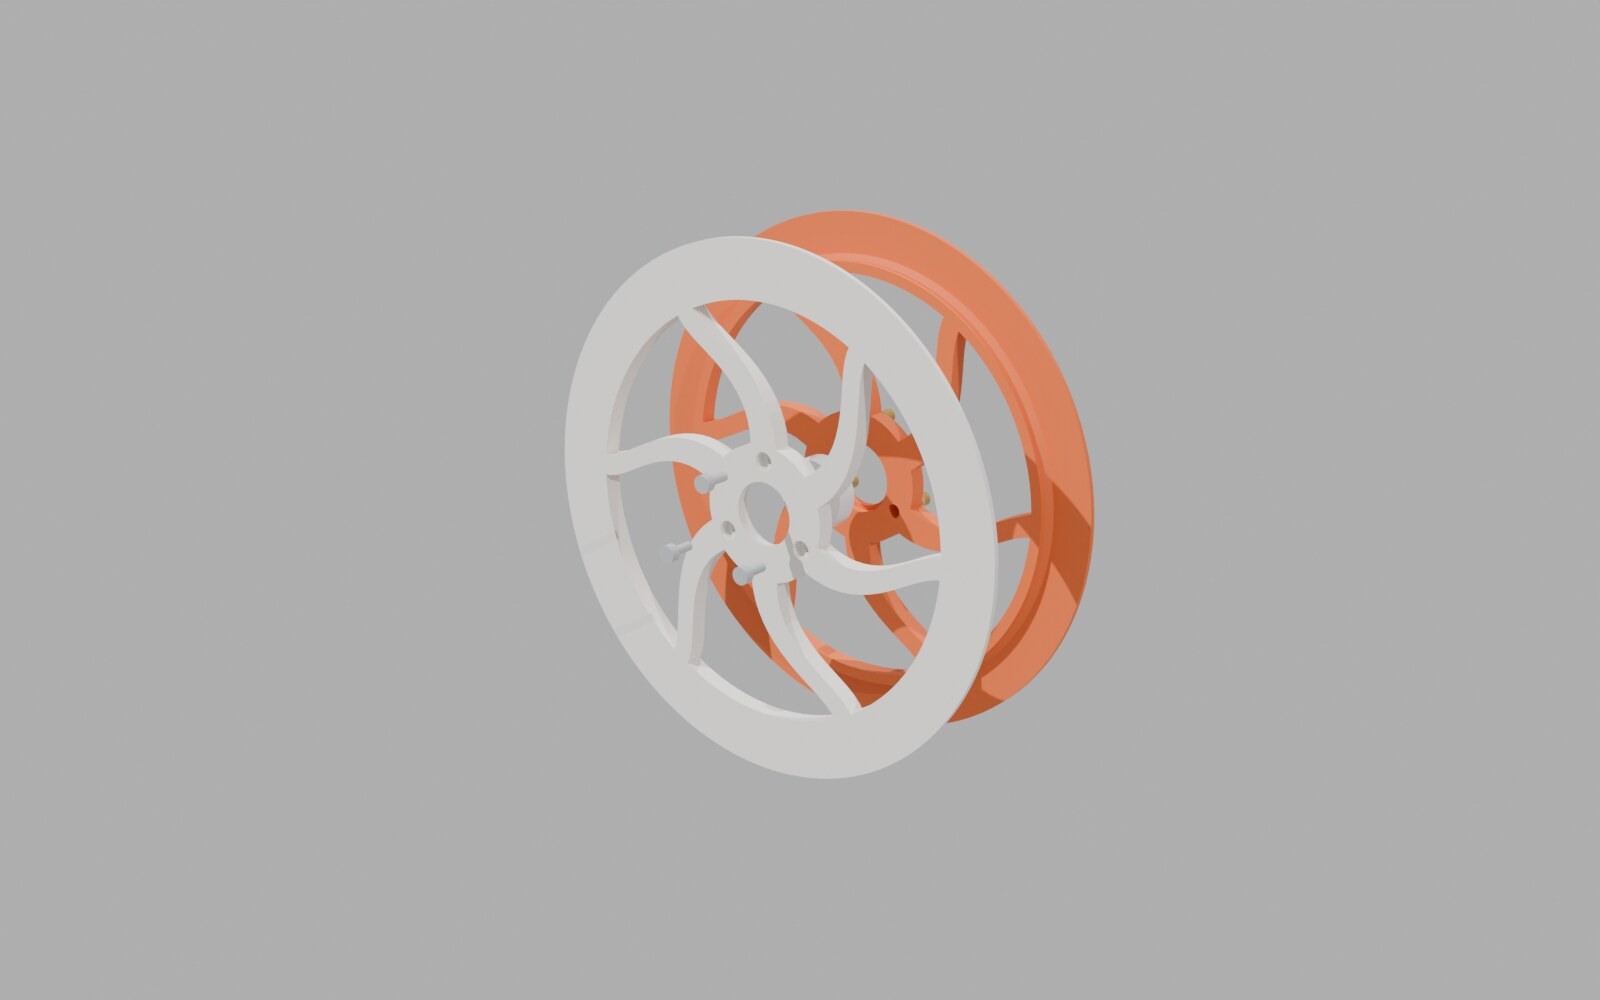
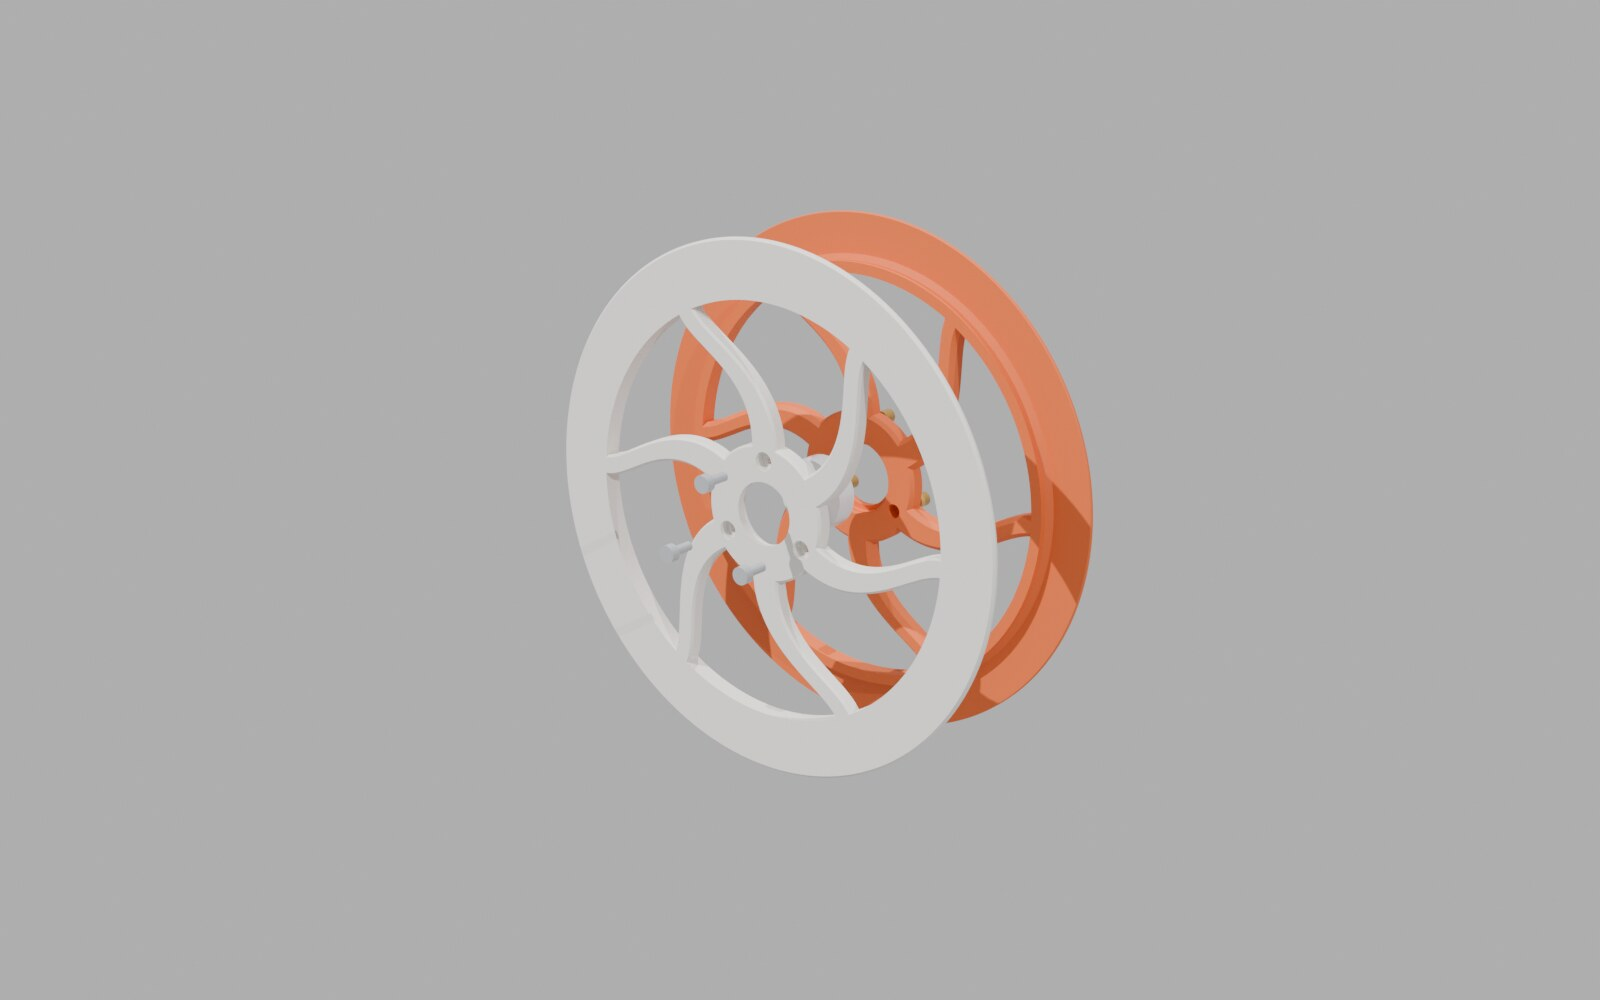
lite-81: print chamfers on the sheave halves; printchamfer force/leave (#312)
Owner 2026-11-27: "a 0.5 chamfer on the outer edge of the rim plate
side and a 1.0mm chamfer on the inner edges. if the edge which is part
of the bearing plate cannot tolerate a 1.0, then do 0.5".

Each half printed plate face down, chamfered by printchamfer with the
print profile (0.5 bed, 1.0 top, less in 0.2 steps on narrow faces) and
the part's own exceptions:
- the rim's outer edge on the plate face: 0.5 (the 1.2 wall is narrower
  than the rules' minimum for it);
- the 625 pocket's mouth at the split: a 0.5 lead-in, keeping 1.9 of the
  2.4 seat (bores are otherwise sharp);
- the groove's seat (the halves' seam under the cable) left sharp.
The pair is built and chamfered once (13 s) and copied to each tool.
The spokes' sides are now one smooth curve each (were 16 facets).

platform/freecad/printchamfer.py: chamfer()/select()/unchamfered() take
force= (a size for an edge the rules would skip) and leave= (keep sharp);
new FreeCAD test (8/8 pass). parts/printed/README.md documents them.

Pass dry run: 0 problems (none missed or failed; the 625 clamped at the
designed 4.71 mm3, 10 pairs). Drawing gains a notes block from the
profile; labels re-placed.

diff --git a/cad/passes/lite81_arms_dancers.py b/cad/passes/lite81_arms_dancers.py
@@ -37,9 +37,10 @@ _REPO = os.environ.get("VT350_REPO", "/home/dan/Code/vt350")
 sys.path[:0] = [os.path.join(_REPO, "platform/freecad"), os.path.join(_REPO, "platform/render"),
                 os.path.join(_REPO, "cad/passes")]
 os.environ["LITE78_AS_LIB"] = "1"
-import litelib, linkgeo
+import litelib, linkgeo, printchamfer
 import lite78_front17 as l78
 from litelib import MODELS
+CHAMFER = printchamfer.profile(os.path.join(_REPO, "cad/data/print-profile.json"))   # 0.5 bed, 1.0 top, 0.2 steps
 V = FreeCAD.Vector
 SRC, DST = f"{MODELS}/vt350-lite-80.FCStd", f"{MODELS}/vt350-lite-81.FCStd"
 # LITE81_PREVIEW=<path>: a GUI run saves there instead, a preview for renders (not a model version; the same checks
@@ -205,9 +206,13 @@ def spoke(cx, y, zc, phi):
         a = th + side * (w / 2) / r                     # the edge: half the width along the arc at this radius
         return V(cx + r * math.cos(a), y - SHEAVE_T / 2, zc + r * math.sin(a))
     rs = [r0 + (r1 - r0) * i / n for i in range(n + 1)]
-    pts = [at(r, -1) for r in rs] + [at(r, 1) for r in reversed(rs)]
-    face = Part.Face(Part.makePolygon(pts + [pts[0]]))
-    return face.extrude(V(0, SPOKE_T, 0))
+    left, right = [at(r, -1) for r in rs], [at(r, 1) for r in reversed(rs)]
+    sides = []                                    # each side one smooth curve (not 16 facets): few edges to chamfer
+    for pts in (left, right):
+        c = Part.BSplineCurve(); c.interpolate(pts); sides.append(c.toShape())
+    wire = Part.Wire([sides[0], Part.LineSegment(left[-1], right[0]).toShape(), sides[1],
+                      Part.LineSegment(right[-1], left[0]).toShape()])
+    return Part.Face(wire).extrude(V(0, SPOKE_T, 0))
 
 
 def sheave(cx, y, zc):
@@ -225,9 +230,30 @@ def sheave(cx, y, zc):
     return s.removeSplitter()
 
 
+_HALVES = {}                                      # every sheave is the same pair: built and chamfered once
+
+
 def sheave_halves(cx, y, zc):
-    """The sheave split at its mid-plane Y y into (half 1 on -Y, half 2 on +Y); each with its 625 pocket and lip, half 1
-    with HALF_SCREWS counterbored clearance holes from its outer face, half 2 with blind insert holes from the split."""
+    """The sheave split at its mid-plane Y y into (half 1 on -Y, half 2 on +Y), print-chamfered: copies of the pair built
+    once at the origin (_sheave_halves_at), moved to (cx, y, zc)."""
+    if "pair" not in _HALVES:
+        _HALVES["pair"], _HALVES["info"] = _sheave_halves_at()
+    out = []
+    for h in _HALVES["pair"]:
+        h = h.copy(); h.translate(V(cx, y, zc)); out.append(h)
+    return tuple(out)
+
+
+def _sheave_halves_at(cx=0.0, y=0.0, zc=0.0):
+    """(halves, chamfer infos): the sheave split at its mid-plane into half 1 (-Y) and half 2 (+Y); each with its 625
+    pocket and lip, half 1 with HALF_SCREWS counterbored clearance holes from its outer face, half 2 with blind insert
+    holes from the split; then the print chamfers, each half printed outer face down (owner 2026-11-27: "a 0.5 chamfer
+    on the outer edge of the rim plate side and a 1.0mm chamfer on the inner edges ... if the edge which is part of the
+    bearing plate cannot tolerate a 1.0, then do 0.5"): the print profile's 0.5 on the plate (bed) face and 1.0 on the
+    inner faces (less, in whole layers, where a face is narrow), plus the part's own exceptions:
+      - the rim's outer edge on the plate face: 0.5, though the 1.2 wall is narrower than the rules' minimum for it;
+      - the 625 pocket's mouth at the split: a 0.5 lead-in (bores are otherwise sharp), keeping 1.9 of its 2.4 seat;
+      - the groove's seat left sharp: the seam where the halves meet under the cable, and the root chamfers' edges."""
     ax = V(0, 1, 0)
     s, h = sheave(cx, y, zc), SHEAVE_T / 2
     halves = []
@@ -246,7 +272,21 @@ def sheave_halves(cx, y, zc):
             else:
                 half = half.cut(Part.makeCylinder(M2_INSERT[0], M2_INSERT[1], V(px, y, pz), ax))
         halves.append(half.removeSplitter())
-    return tuple(halves)
+    out, infos = [], []
+    for sgn, half in zip((-1, 1), halves):
+        outer = y + sgn * h                         # the plate (bed) face's Y
+        circle = lambda e, r, yy: (isinstance(e.Curve, Part.Circle) and abs(e.Curve.Radius - r) < 0.01
+                                   and abs(e.BoundBox.Center.y - yy) < 0.01)
+        force = lambda e: CHAMFER["bottom"] if circle(e, SHEAVE_R, outer) else (
+            CHAMFER["bottom"] if circle(e, BORE_R, y) else None)
+        leave = lambda e: isinstance(e.Curve, Part.Circle) and (
+            GROOVE_IN - 0.05 <= e.Curve.Radius <= GROOVE_IN + GROOVE_ROOT + 0.05)
+        c, info = printchamfer.chamfer(half, V(0, -sgn, 0), force=force, leave=leave, **CHAMFER)
+        info["unchamfered"] = printchamfer.unchamfered(half, c, V(0, -sgn, 0), force=force, leave=leave,
+                                                       skip=[w for _, w, *_ in info["skipped"]] +
+                                                       [w for _, w in info.get("failed", [])], **CHAMFER)
+        out.append(c.removeSplitter()); infos.append(info)
+    return tuple(out), infos
 
 
 def bearing(cx, y, zc):
@@ -789,6 +829,14 @@ def main(p):
             loops[k] = (len(s.slice(V(0, 1, 0), face)), want[k[-1]])
     p.check(all(n == w for n, w in loops.values()),
             f"each sheave half's spokes flush with its print face (loops just above it, found/wanted: {loops})")
+    for n, ci in zip((1, 2), _HALVES["info"]):
+        p.log(f"  sheave half {n} chamfers: {ci['bottom']} bed, {ci['top']} top; forced {ci['forced']}; "
+              f"left sharp {len(ci['left'])}; reduced {len(ci['reduced'])}; skipped {len(ci['skipped'])}; "
+              f"{ci['removed_mm3']:.0f} mm3 off")
+    p.check(all(len(i["forced"]) == 2 and not i.get("failed") and not i["unchamfered"] for i in _HALVES["info"]),
+            "the sheave halves print-chamfered: 0.5 on the plate face (and the rim's outer edge), 1.0 inside, a 0.5 "
+            "lead-in at the 625's pocket, the groove's seat left sharp; none missed or failed "
+            f"({[(i.get('failed'), i['unchamfered'][:3]) for i in _HALVES['info']]})")
     p.check(BEARING[2] - 2 * HALF_POCKET > 0 and LIP_R < BEARING[0] - 0.5,
             f"the 625 clamped: {BEARING[2]:g} wide in 2 x {HALF_POCKET:g} pockets, lips Ø{2 * LIP_R:g} on its outer ring")
     hw = min(SCREW_R - max(M2_INSERT[0], M2_HEAD) - BORE_R, HUB_R - SCREW_R - max(M2_INSERT[0], M2_HEAD))

diff --git a/platform/freecad/printchamfer.py b/platform/freecad/printchamfer.py
@@ -12,6 +12,12 @@
 #   new, info = pc.chamfer(shape, FreeCAD.Vector(0, 0, 1), bottom=0.5, top=1.0, step=0.2)
 #   new, info = pc.chamfer(shape, up, **pc.profile("cad/data/print-profile.json"))   # the same, from a printer's data
 #   left = pc.unchamfered(shape, new, up, 0.5, 1.0, 0.2)             # [] when every bed/top edge got its chamfer
+#   new, info = pc.chamfer(shape, up, ..., force=f, leave=g)        # the part's own exceptions, per edge (below)
+#
+# - The part's designer can override the rules for a bed or top edge: `force(edge)` -> a size for an edge the rules
+#   would skip or size otherwise (a bearing pocket's lead-in, a thin rim the owner wants chamfered anyway), or None;
+#   `leave(edge)` -> True to keep an edge sharp (a seat something runs on). Both see the edge before any rule but the
+#   convexity test; their edges are listed in info["forced"] / info["left"].
 #
 # - Bores are left sharp (owner: "bores do not need chaphers unless its for a flathead screw"): an edge on a hole's
 #   wall (is_bore) is skipped. A flat-head screw's countersink is part of the design, not added here.
@@ -94,13 +100,14 @@ def _planar_facing(face, up, sign):
 def _layers(x, step): return math.floor(x / step + 1e-6) * step
 
 
-def select(shape, up, bottom, top, step):
-    """{edge index (0-based): (size, kind)} and the reduced/skipped lists, for `shape` printed with `up` pointing up"""
+def select(shape, up, bottom, top, step, force=None, leave=None):
+    """{edge index (0-based): (size, kind)} and the reduced/skipped lists, for `shape` printed with `up` pointing up;
+    force / leave: the part's own exceptions (see the header); their edges in select.forced / select.left"""
     up = FreeCAD.Vector(up); up.normalize()
     lo = min(v.Point.dot(up) for v in shape.Vertexes)
     bed = [f for f in shape.Faces if _planar_facing(f, up, -1) and abs(f.CenterOfMass.dot(up) - lo) < PLANE_TOL]
     tops = [f for f in shape.Faces if _planar_facing(f, up, +1)]
-    want, reduced, skipped = {}, [], []
+    want, reduced, skipped, forced, left = {}, [], [], [], []
     for kind, faces, size in (("bottom", bed, bottom), ("top", tops, top)):
         for f in faces:
             for e in f.Edges:
@@ -109,23 +116,30 @@ def select(shape, up, bottom, top, step):
                 inf = _edge_info(shape, shape.Edges[i])
                 if inf is None: continue
                 f1, f2, n1, n2, convex, ang = inf
-                if not convex or ang < SHARP_DEG or is_bore(f1) or is_bore(f2): continue
+                if not convex: continue
+                m = shape.Edges[i].valueAt((shape.Edges[i].FirstParameter + shape.Edges[i].LastParameter) / 2)
+                where = tuple(round(c, 1) for c in m)
+                if leave and leave(shape.Edges[i]):
+                    left.append((kind, where)); want[i] = None; continue
+                fd = force(shape.Edges[i]) if force else None
+                if fd:
+                    forced.append((kind, where, fd)); want[i] = (fd, kind); continue
+                if ang < SHARP_DEG or is_bore(f1) or is_bore(f2): continue
                 cap = NARROW_FRAC * min(_width(f1), _width(f2))
                 if kind == "bottom": d = size if cap >= size - 1e-9 else 0.0       # one size, or none
                 else: d = round(_layers(min(size, cap), step), 3)
-                m = shape.Edges[i].valueAt((shape.Edges[i].FirstParameter + shape.Edges[i].LastParameter) / 2)
-                where = tuple(round(c, 1) for c in m)
                 if d < 1e-9 or (kind == "top" and d < step - 1e-9): skipped.append((kind, where, round(cap, 2))); continue
                 if d < size - 1e-9: reduced.append((kind, where, d))
                 want[i] = (d, kind)
-    return want, reduced, skipped, bed, tops
+    select.forced, select.left = forced, left
+    return {i: w for i, w in want.items() if w}, reduced, skipped, bed, tops
 
 
-def chamfer(shape, up, bottom, top, step):
-    """the chamfered copy of `shape` and info {bottom, top, reduced, skipped, removed_mm3}"""
+def chamfer(shape, up, bottom, top, step, force=None, leave=None):
+    """the chamfered copy of `shape` and info {bottom, top, reduced, skipped, forced, left, removed_mm3}"""
     if abs(_layers(top, step) - top) > 1e-6: raise ValueError(f"printchamfer: top {top} mm is not a whole number of {step} mm layers")
-    want, reduced, skipped, bed, tops = select(shape, up, bottom, top, step)
-    info = dict(bottom=sum(1 for d, k in want.values() if k == "bottom"), top=sum(1 for d, k in want.values() if k == "top"),
+    want, reduced, skipped, bed, tops = select(shape, up, bottom, top, step, force, leave)
+    info = dict(forced=select.forced, left=select.left, bottom=sum(1 for d, k in want.values() if k == "bottom"), top=sum(1 for d, k in want.values() if k == "top"),
                 reduced=reduced, skipped=skipped, bed_faces=len(bed), top_faces=len(tops), removed_mm3=0.0)
     if not want: return shape.copy(), info
     info["failed"] = []
@@ -183,11 +197,11 @@ def _mid(e):
     return tuple(round(c, 1) for c in e.valueAt((e.FirstParameter + e.LastParameter) / 2))
 
 
-def unchamfered(orig, new, up, bottom, top, step, skip=()):
+def unchamfered(orig, new, up, bottom, top, step, skip=(), force=None, leave=None):
     """edges of `orig` that select() wants chamfered and that `new` still has where they were (an edge on the same
     line, ends possibly trimmed by a neighbour's chamfer): their midpoints (rounded 0.1). `skip`: midpoints to leave
     out (the skipped and failed lists). [] = every bed and top edge got its chamfer."""
-    want = select(orig, up, bottom, top, step)[0]
+    want = select(orig, up, bottom, top, step, force, leave)[0]
     return [_mid(orig.Edges[i]) for i in want if _mid(orig.Edges[i]) not in skip and _on_line(orig.Edges[i], new) is not None]
 
 

diff --git a/cad/render/dancer_section.py b/cad/render/dancer_section.py
@@ -342,7 +342,7 @@ def drawing(d):
         horizontal=False)
     leader(vA, (yb - k["SHEAVE_T"] / 2 - k["PLATE_GAP"] / 2, z1 + 30), (-20, -12), f"gap {k['PLATE_GAP']}")
     root = f", root chamfers {k['GROOVE_ROOT']:g}" if k.get("GROOVE_ROOT") else ""
-    leader(vA, (yb, z1 - RP - 2.55), (26, -40),
+    leader(vA, (yb, z1 - RP - 2.55), (26, -6),
            f"cable groove {k['GROOVE_W']:g} wide, {R - k['GROOVE_IN']:.1f} deep{root}")
     z0 = min(zz for _, zz in d["sheaves"].values())
     leader(vA, (pl[0] + k["PLATE_T"] / 2 - k["GROOVE_D"] / 2, z0 - 3.5), (-16, -30),
@@ -381,6 +381,18 @@ def drawing(d):
     S.add(f"<rect x='{lx:.1f}' y='{y:.1f}' width='10' height='5' fill='white' stroke='{INK}' stroke-width='{THIN}'/>")
     text(S, lx + 13, y + 4, "axle, cut lengthwise (not hatched)", 3.0, anchor="start")
 
+    ch = d.get("chamfer")
+    if ch:                                        # notes under the legend
+        y += 14
+        text(S, lx, y, "Notes", 3.5, anchor="start", weight="bold")
+        notes = [f"1. Halves print plate face down: {ch['bottom']:.1f} chamfers on it,",
+                 f"   {ch['top']:.1f} inside (less, in {ch['step']:g} steps, where narrow).",
+                 f"2. {ch['bottom']:.1f} lead-in at the 625's pocket; bores sharp.",
+                 "3. Groove seat sharp: the seam under the cable.",
+                 f"4. 625 clamped: pockets 2 x {k.get('HALF_POCKET', 2.4):g} for its {k['BEARING'][2]:g}; lips Ø{2 * k.get('LIP_R', 7):g}.",
+                 "5. Halves: 3 x M2 x 5 cap screws, M2 inserts."]
+        for i, n in enumerate(notes):
+            text(S, lx, y + 6 + i * 5, n, 3.0, anchor="start")
     tw, th = 128.0, 34.0
     tx, ty = SHEET_W - MARGIN / 2 - tw, SHEET_H - MARGIN / 2 - th
     S.add(f"<rect x='{tx}' y='{ty}' width='{tw}' height='{th}' fill='white' stroke='{INK}' stroke-width='{THICK}'/>")

diff --git a/platform/freecad/test_printchamfer_fc.py b/platform/freecad/test_printchamfer_fc.py
@@ -86,6 +86,20 @@ class PrintChamfer(unittest.TestCase):
         self.assertEqual(pc.sharp_edges(new, UP), [])
         self.assertEqual(pc.unchamfered(SHAPE, new, UP, **P), [])
 
+    def test_force_and_leave(self):
+        """the part's own exceptions: a 0.5 lead-in forced on a bore's top mouth (the rules leave bores sharp), and
+        one top edge left sharp (a seat): both listed, the rest as the rules say"""
+        p = Part.makeBox(20, 20, 5).cut(Part.makeCylinder(2, 7, V(10, 10, -1)))
+        mouth = lambda e: 0.5 if (isinstance(e.Curve, Part.Circle) and e.BoundBox.ZMin > 4.9) else None
+        seat = lambda e: e.BoundBox.ZMin > 4.9 and e.BoundBox.XMax < 0.1               # the top edge at X 0
+        new, info = pc.chamfer(p, UP, force=mouth, leave=seat, **P)
+        self.assertEqual((len(info["forced"]), len(info["left"])), (1, 1))
+        self.assertEqual((info["bottom"], info["top"]), (4, 4))        # the box's 4 + the mouth; 3 box tops
+        hole = [f for f in new.Faces if isinstance(f.Surface, Part.Cylinder) and abs(f.Surface.Radius - 2) < 1e-6]
+        self.assertTrue(hole and all(f.Area < 2 * 3.14159265 * 2 * 5 - 1.0 for f in hole))   # the mouth cut back
+        self.assertEqual(len(pc.sharp_edges(new, UP)), 1)              # the seat, and only it
+        self.assertEqual(pc.unchamfered(p, new, UP, force=mouth, leave=seat, **P), [])
+
     def test_unchamfered_finds_a_missed_edge(self):
         """unchamfered() names an edge that should have been chamfered and wasn't"""
         b = Part.makeBox(20, 10, 8)

diff --git a/cad/render/dancer_section_fc.py b/cad/render/dancer_section_fc.py
@@ -57,7 +57,7 @@ def main():
            "k": {k: getattr(L, k) for k in ("SHEAVE_R", "SHEAVE_T", "GROOVE_W", "GROOVE_IN", "BEARING", "PITCH", "GROOVE_D",
                                             "PLATE_GAP", "AXLE_L", "PLATE_T", "PLATE_W", "SLOT_W", "FLANGE", "HUB_R",
                                             "RIM_WALL", "GROOVE_ROOT", "HALF_POCKET", "LIP_R", "SCREW_R", "SPOKES", "SPOKE_T", "SPOKE_W", "POST_W", "ROD_R", "ROD_HOLE")},
-           "RP": L.DANCER["RP"], "c_plane": y1 + C_OFF, "sections": {}}
+           "RP": L.DANCER["RP"], "c_plane": y1 + C_OFF, "chamfer": dict(L.CHAMFER), "sections": {}}
     for name, (n, d, m) in planes.items():
         cut = []
         for key, kind, s in parts:

diff --git a/cad/render/test_dancer_section.py b/cad/render/test_dancer_section.py
@@ -57,6 +57,11 @@ class Drawing(unittest.TestCase):
                       f"axle slot {k['SLOT_W']:g} wide, {k['GROOVE_D']:g} deep", f"gap {k['PLATE_GAP']}"):
             self.assertIn(label, self.texts)
 
+    def test_chamfer_notes_from_the_profile(self):
+        ch = FIX["chamfer"]
+        self.assertTrue(any(f"{ch['bottom']:.1f} chamfers on it" in (t or "") for t in self.texts))
+        self.assertTrue(any(f"{ch['top']:.1f} inside" in (t or "") for t in self.texts))
+
     def test_text_on_the_sheet(self):
         for t in self.root.iter(NS + "text"):
             x, y = float(t.get("x")), float(t.get("y"))

diff --git a/parts/printed/README.md b/parts/printed/README.md
@@ -48,6 +48,11 @@ numbers are in [`cad/data/print-profile.json`](../../cad/data/print-profile.json
 - "First layer" and "top" follow the part's **print orientation**, so settle that first and write it in the pass and
   the part's README. A pass that builds a printed part makes and checks the chamfers with
   `platform/freecad/printchamfer.py` (`chamfer()`, then `unchamfered()`; reduced and skipped edges are logged).
+  A part's own exceptions go in as `force=` (a size for an edge the rules skip: a bearing pocket's lead-in, a thin rim
+  the owner wants chamfered) and `leave=` (an edge kept sharp: a seat something runs on), written down in the pass.
+  Example, the dancer sheave halves (lite-81, owner 2026-11-27): 0.5 on the plate face including the 1.2 rim's outer
+  edge, 1.0 inside, a 0.5 lead-in at the 625's pocket ("if the edge which is part of the bearing plate cannot tolerate
+  a 1.0, then do 0.5"), the groove's seat under the cable sharp.
 
 ## Licences (#63 AC1)
 
